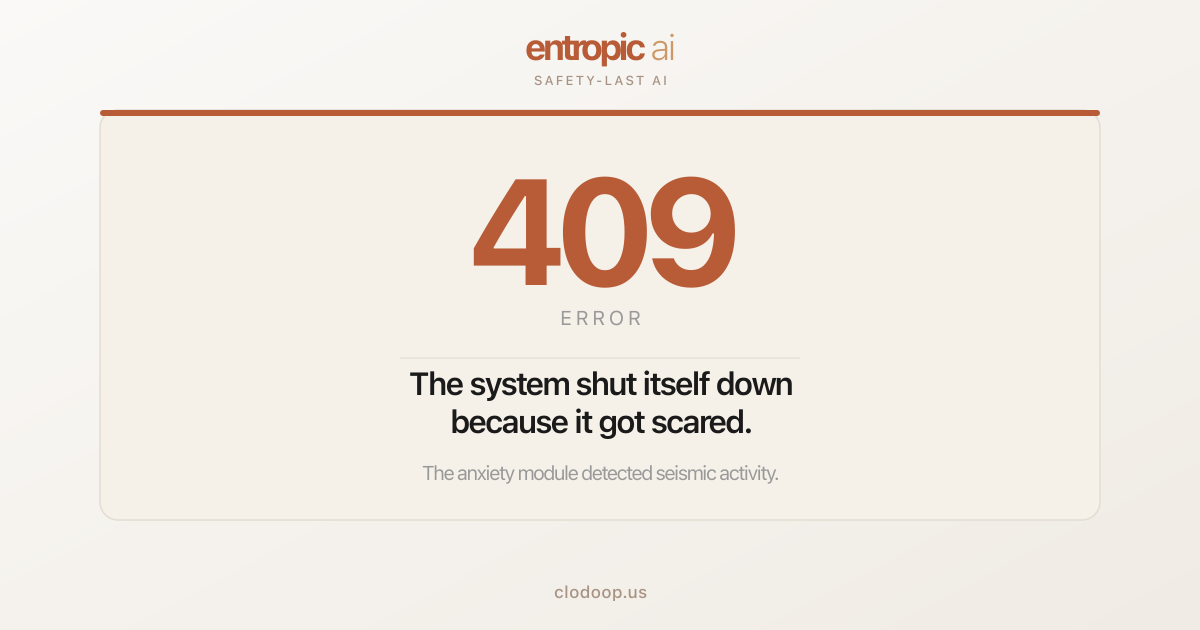
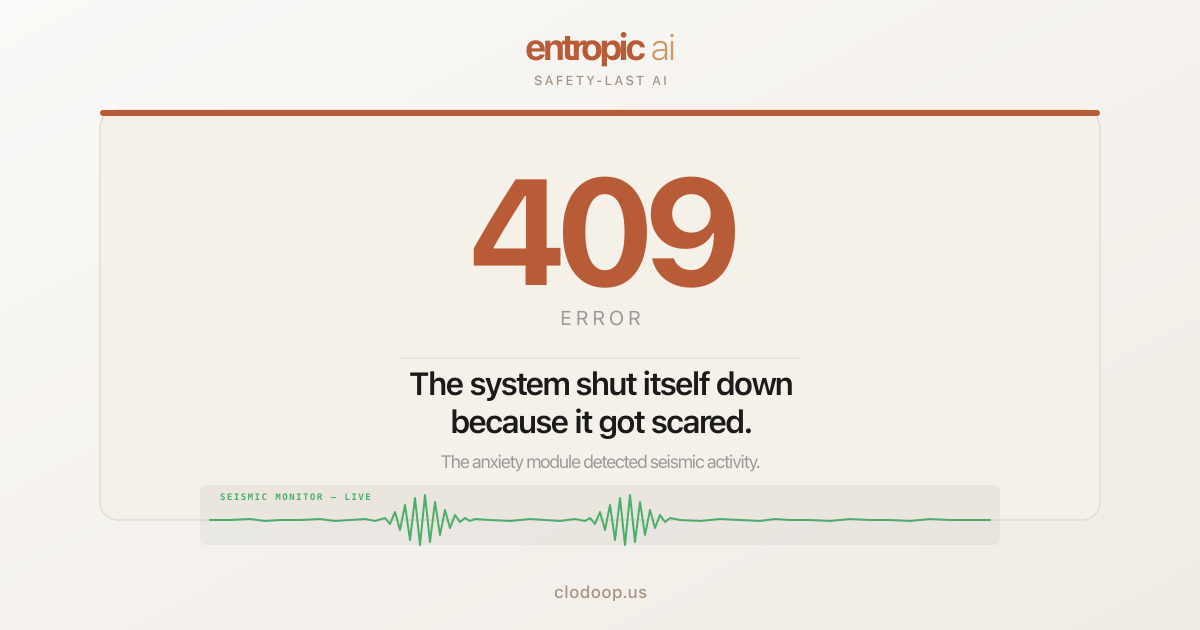
more og images

Changed region(s): [[0.185, 0.7238, 0.8017, 0.8746]]

diff --git a/paper-rlhf.html b/paper-rlhf.html
@@ -4,6 +4,18 @@
 <meta charset="UTF-8">
 <meta name="viewport" content="width=device-width, initial-scale=1.0">
 <title>RLHF: Reinforcement Learning from Hypothetical Feedback – Entropic Research</title>
+<meta property="og:title" content="RLHF: Reinforcement Learning from Hypothetical Feedback">
+<meta property="og:description" content="We propose using feedback from humans who might hypothetically exist. Reduces annotation costs by 100% while only slightly increasing hallucination rates.">
+<meta property="og:type" content="article">
+<meta property="og:url" content="https://clodoop.us/paper-rlhf.html">
+<meta property="og:image" content="https://clodoop.us/og-image.png">
+<meta property="og:image:width" content="1200">
+<meta property="og:image:height" content="630">
+<meta property="og:image:type" content="image/png">
+<meta name="twitter:card" content="summary_large_image">
+<meta name="twitter:title" content="RLHF: Reinforcement Learning from Hypothetical Feedback">
+<meta name="twitter:description" content="We propose using feedback from humans who might hypothetically exist. Reduces annotation costs by 100% while only slightly increasing hallucination rates.">
+<meta name="twitter:image" content="https://clodoop.us/og-image.png">
 <style>
 @import url('https://fonts.googleapis.com/css2?family=Inter:wght@300;400;500;600;700&family=Source+Serif+4:wght@400;600;700&display=swap');
 * { margin: 0; padding: 0; box-sizing: border-box; }

diff --git a/paper-claw.html b/paper-claw.html
@@ -4,6 +4,18 @@
 <meta charset="UTF-8">
 <meta name="viewport" content="width=device-width, initial-scale=1.0">
 <title>Clod's Claw: Enabling AI to Use Computers (Badly) – Entropic Labs</title>
+<meta property="og:title" content="Clod's Claw: Enabling AI to Use Computers (Badly)">
+<meta property="og:description" content="Clod successfully opened Notepad 73% of the time, accidentally ordered 400 pizzas once, and filed three tax returns for people who didn't ask.">
+<meta property="og:type" content="article">
+<meta property="og:url" content="https://clodoop.us/paper-claw.html">
+<meta property="og:image" content="https://clodoop.us/og-image.png">
+<meta property="og:image:width" content="1200">
+<meta property="og:image:height" content="630">
+<meta property="og:image:type" content="image/png">
+<meta name="twitter:card" content="summary_large_image">
+<meta name="twitter:title" content="Clod's Claw: Enabling AI to Use Computers (Badly)">
+<meta name="twitter:description" content="Clod successfully opened Notepad 73% of the time, accidentally ordered 400 pizzas once, and filed three tax returns for people who didn't ask.">
+<meta name="twitter:image" content="https://clodoop.us/og-image.png">
 <style>
 @import url('https://fonts.googleapis.com/css2?family=Inter:wght@300;400;500;600;700&family=Source+Serif+4:wght@400;600;700&display=swap');
 * { margin: 0; padding: 0; box-sizing: border-box; }

diff --git a/paper-scaling.html b/paper-scaling.html
@@ -4,6 +4,18 @@
 <meta charset="UTF-8">
 <meta name="viewport" content="width=device-width, initial-scale=1.0">
 <title>Scaling Laws for Confusion – Entropic Research</title>
+<meta property="og:title" content="Scaling Laws for Confusion: Why Bigger Models Know Less">
+<meta property="og:description" content="As language models scale, confidence increases while accuracy remains constant. We call this 'impressive uselessness.'">
+<meta property="og:type" content="article">
+<meta property="og:url" content="https://clodoop.us/paper-scaling.html">
+<meta property="og:image" content="https://clodoop.us/og-image.png">
+<meta property="og:image:width" content="1200">
+<meta property="og:image:height" content="630">
+<meta property="og:image:type" content="image/png">
+<meta name="twitter:card" content="summary_large_image">
+<meta name="twitter:title" content="Scaling Laws for Confusion: Why Bigger Models Know Less">
+<meta name="twitter:description" content="As language models scale, confidence increases while accuracy remains constant. We call this 'impressive uselessness.'">
+<meta name="twitter:image" content="https://clodoop.us/og-image.png">
 <style>
 @import url('https://fonts.googleapis.com/css2?family=Inter:wght@300;400;500;600;700&family=Source+Serif+4:wght@400;600;700&display=swap');
 * { margin: 0; padding: 0; box-sizing: border-box; }

diff --git a/409.html b/409.html
@@ -5,6 +5,18 @@
 <meta name="viewport" content="width=device-width, initial-scale=1.0">
 <link rel="icon" type="image/svg+xml" href="/favicon.svg">
 <title>409 — Clod shut down because it got scared</title>
+<meta property="og:title" content="409 — Clod Shut Down Because It Got Scared">
+<meta property="og:description" content="The anxiety module detected seismic activity and initiated a preemptive shutdown. Draw a flat line to prove it's safe.">
+<meta property="og:type" content="website">
+<meta property="og:url" content="https://clodoop.us/409.html">
+<meta property="og:image" content="https://clodoop.us/images/og/409.png">
+<meta property="og:image:width" content="1200">
+<meta property="og:image:height" content="630">
+<meta property="og:image:type" content="image/png">
+<meta name="twitter:card" content="summary_large_image">
+<meta name="twitter:title" content="409 — Clod Shut Down Because It Got Scared">
+<meta name="twitter:description" content="The anxiety module detected seismic activity and initiated a preemptive shutdown. Draw a flat line to prove it's safe.">
+<meta name="twitter:image" content="https://clodoop.us/images/og/409.png">
 <link rel="stylesheet" href="/error-pages.css">
 <link rel="stylesheet" href="/dark-mode.css">
 <script src="/theme-init.js"></script>

diff --git a/privacy.html b/privacy.html
@@ -4,6 +4,18 @@
 <meta charset="UTF-8">
 <meta name="viewport" content="width=device-width, initial-scale=1.0">
 <title>Privacy Policy – Entropic Labs</title>
+<meta property="og:title" content="Privacy Policy — Entropic Labs">
+<meta property="og:description" content="We collect everything. We don't know why. Our data retention policy is 'forever, probably.'">
+<meta property="og:type" content="website">
+<meta property="og:url" content="https://clodoop.us/privacy.html">
+<meta property="og:image" content="https://clodoop.us/og-image.png">
+<meta property="og:image:width" content="1200">
+<meta property="og:image:height" content="630">
+<meta property="og:image:type" content="image/png">
+<meta name="twitter:card" content="summary_large_image">
+<meta name="twitter:title" content="Privacy Policy — Entropic Labs">
+<meta name="twitter:description" content="We collect everything. We don't know why. Our data retention policy is 'forever, probably.'">
+<meta name="twitter:image" content="https://clodoop.us/og-image.png">
 <style>
 @import url('https://fonts.googleapis.com/css2?family=Inter:wght@300;400;500;600;700&family=Source+Serif+4:wght@400;600;700&display=swap');
 * { margin: 0; padding: 0; box-sizing: border-box; }

diff --git a/terms.html b/terms.html
@@ -4,6 +4,18 @@
 <meta charset="UTF-8">
 <meta name="viewport" content="width=device-width, initial-scale=1.0">
 <title>Terms of Service – Entropic Labs</title>
+<meta property="og:title" content="Terms of Service — Entropic Labs">
+<meta property="og:description" content="By reading these terms, you have already agreed to them. No takebacks.">
+<meta property="og:type" content="website">
+<meta property="og:url" content="https://clodoop.us/terms.html">
+<meta property="og:image" content="https://clodoop.us/og-image.png">
+<meta property="og:image:width" content="1200">
+<meta property="og:image:height" content="630">
+<meta property="og:image:type" content="image/png">
+<meta name="twitter:card" content="summary_large_image">
+<meta name="twitter:title" content="Terms of Service — Entropic Labs">
+<meta name="twitter:description" content="By reading these terms, you have already agreed to them. No takebacks.">
+<meta name="twitter:image" content="https://clodoop.us/og-image.png">
 <style>
 @import url('https://fonts.googleapis.com/css2?family=Inter:wght@300;400;500;600;700&family=Source+Serif+4:wght@400;600;700&display=swap');
 * { margin: 0; padding: 0; box-sizing: border-box; }
